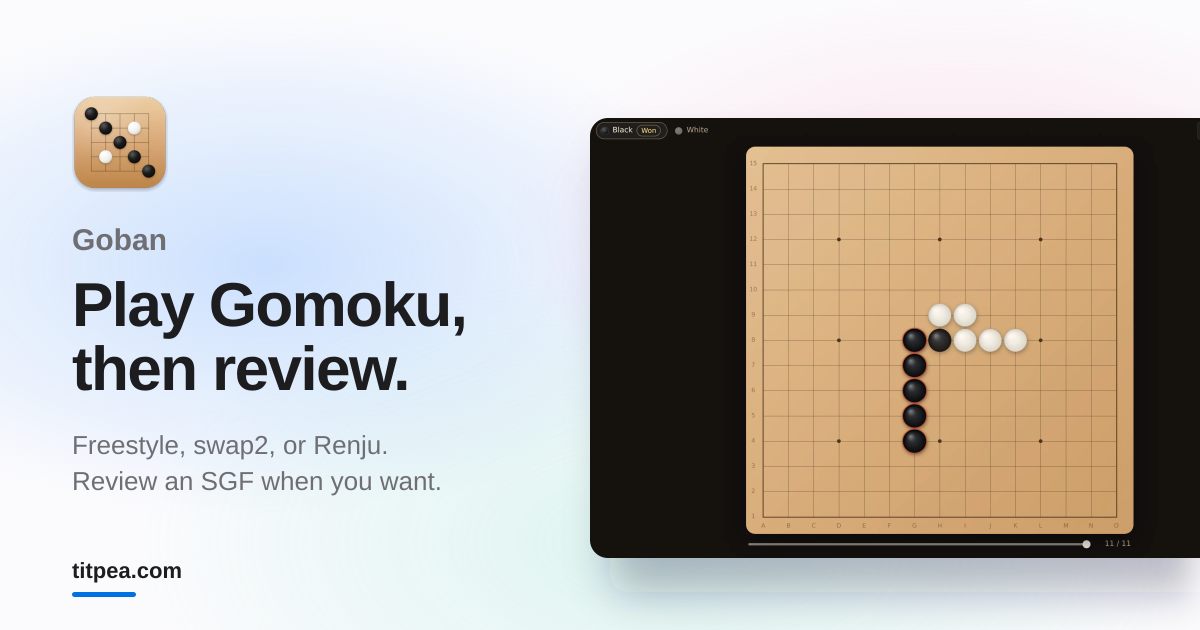
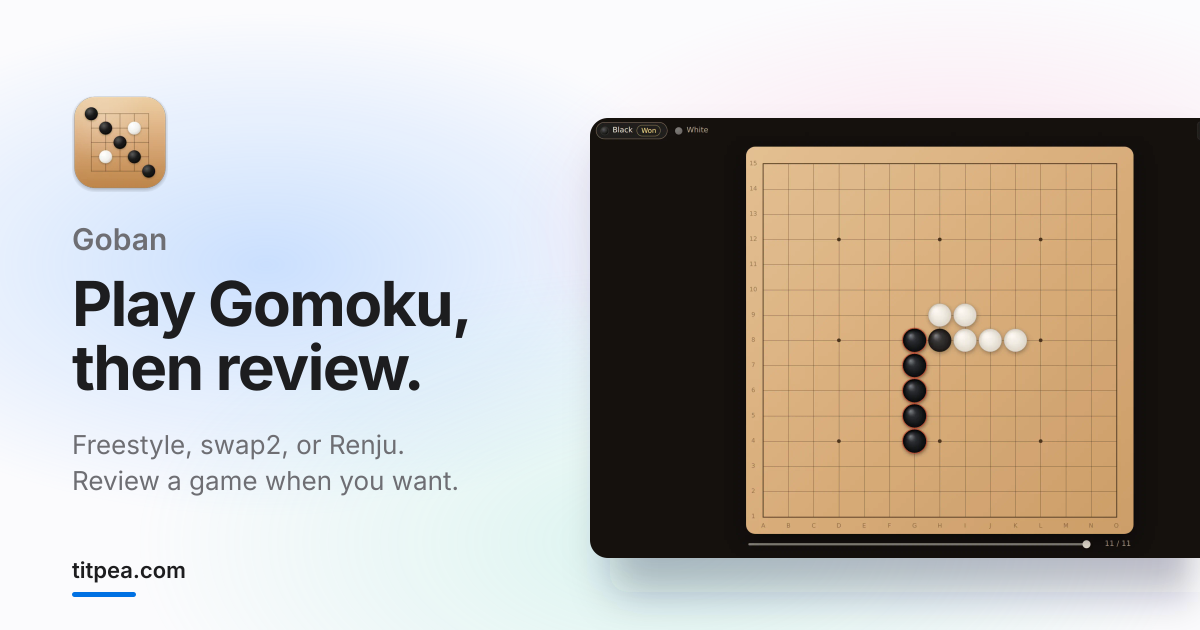
Content review: clearer, consistent copy in both locales
- Home meta description names the same four directions as the lede
  (it called the extensions "for everyday reading" and the games
  "desktop board games", though Paper Sudoku is Android).
- Goban: the network note said "no network" beside "Only when you ask";
  it now says Check for Updates is the one thing that goes online.
- "Releases page" on product pages now says GitHub Releases, so it is
  not read as the site's own Releases page (httpmon, World Machine).
- Button names quoted where a sentence ran into them (Storage Agent,
  PageWise); ambiguous pronouns and over-packed lines rephrased
  (PageWise keys, Goban backup, Bilingual description, World Machine
  voice card, Douban hover card, Paper Sudoku policy permission line).
- One term per idea: 凭据 (not 凭证), 轮次 (not 回合) on celagent,
  失着 on Chessboard, 模型线路 on Agent Radar, 子 Agent on Pulse,
  "hidden document" on Bilingual, 繁体中文, agent lowercase in English.
- zh fixes: Agent Radar eyebrow matches English, World Clock 夏令时,
  Readout GitHub 风格 Markdown, PageWise catalog, StorageOps FAQ,
  Pulse event-log sentence, World Machine nav label.
- 404 lede: "home index" -> "home page". Goban share image redrawn
  for its catalog line.

Claude-Session: https://claude.ai/code/session_01JmaFxrCaTr7J8dy17sm4dB

diff --git a/src/content/products/goban.ts b/src/content/products/goban.ts
@@ -15,13 +15,13 @@ export default defineProduct({
   en: {
     title: "Goban",
     description:
-      "A desktop Gomoku board for macOS and Windows: free, swap2, or Renju, with review, drills, and a daily streak.",
+      "A desktop Gomoku board for macOS and Windows: freestyle, swap2, or Renju, with review and practice puzzles.",
     eyebrow: "Desktop Gomoku game",
     headline: "Play Gomoku, then review.",
     lead: "A 15×15 board. Three rule sets. Games stay local.",
     catalog: {
       role: "",
-      text: "Freestyle, swap2, or Renju. Review an SGF when you want.",
+      text: "Freestyle, swap2, or Renju. Review a game when you want.",
     },
     primaryCta: {
       label: "Download",
@@ -35,7 +35,8 @@ export default defineProduct({
       "The macOS build is not notarized: the first time, click Open Anyway in System Settings → Privacy & Security.",
     privacy: {
       network: "onRequest",
-      networkNote: "No account and no network; on macOS, Check for Updates contacts GitHub only when you click it.",
+      networkNote:
+        "No account; nothing goes online except Check for Updates on macOS, which contacts GitHub only when you click it.",
       stays: "Games, practice progress and settings in the app’s storage on this computer.",
     },
     meta: "macOS + Windows · MIT · {version} · Local app",
@@ -89,8 +90,8 @@ export default defineProduct({
         title: "Where your data goes.",
         items: [
           "Your unfinished game, the last 100 finished games, practice progress, and settings stay in the app's storage on this computer.",
-          "Back up in Settings · Data saves games, results, and practice progress to one file; Restore replaces current data with it.",
-          "No account and no network; on macOS, Check for Updates contacts GitHub only when you click it.",
+          "In Settings · Data, Back up saves games, results, and practice progress to one file; Restore replaces current data with it.",
+          "No account; nothing goes online except Check for Updates on macOS, which contacts GitHub only when you click it.",
         ],
       },
       {
@@ -141,7 +142,7 @@ export default defineProduct({
     installNote: "macOS 版未经公证：第一次打开时，到“系统设置 → 隐私与安全性”点“仍要打开”。",
     privacy: {
       network: "onRequest",
-      networkNote: "不要账号，也不联网；macOS 上的“检查更新”只在你点它时向 GitHub 查询。",
+      networkNote: "不要账号；只有 macOS 上的“检查更新”会联网，而且只在你点它时向 GitHub 查询。",
       stays: "对局、练习进度和设置都存在这台电脑上应用自己的存储里。",
     },
     meta: "macOS + Windows · MIT · {version} · 本地应用",
@@ -195,7 +196,7 @@ export default defineProduct({
         items: [
           "没下完的一局、最近 100 局、练习进度和设置，都存在这台电脑上应用自己的存储里。",
           "“设置 · 数据”里的“备份”把对局、战绩和练习进度存成一个文件；“恢复”用它替换现有数据。",
-          "不要账号，也不联网；macOS 上的“检查更新”只在你点它时向 GitHub 查询。",
+          "不要账号；只有 macOS 上的“检查更新”会联网，而且只在你点它时向 GitHub 查询。",
         ],
       },
       {

diff --git a/src/content/products/world-machine.ts b/src/content/products/world-machine.ts
@@ -99,7 +99,7 @@ export default defineProduct({
           { title: "Build, paint, name", body: "Scaffolding at once; paint a flag; name boats and babies." },
           { title: "Talk with a goal", body: "Someone asks a favour; you do it by talking." },
           { title: "Three languages", body: "Interface, stories and talk in English, Chinese or Japanese." },
-          { title: "Agent-ready", body: "Pi, a local agent, or your own API key can voice it." },
+          { title: "Agent-ready", body: "A local agent like Pi, or your API key, can voice it." },
         ],
       },
       {
@@ -125,11 +125,11 @@ export default defineProduct({
           },
           {
             title: "How do I open it the first time?",
-            body: "Download the DMG from the Releases page and drag World Machine onto Applications; it runs on Apple Silicon or Intel. Builds are not notarized, so the first launch needs a one-time Open Anyway step, described in the install guide.",
+            body: "Download the DMG from GitHub Releases and drag World Machine onto Applications; it runs on Apple Silicon or Intel. Builds are not notarized, so the first launch needs a one-time Open Anyway step, described in the install guide.",
           },
           {
             title: "Is there a free demo?",
-            body: "Yes. World Machine Demo, on the same Releases page, is 20 to 30 minutes of Tiny Society, up to day 8. Your harbour stays in My Worlds, and the full app opens it and carries on.",
+            body: "Yes. World Machine Demo, also on GitHub Releases, is 20 to 30 minutes of Tiny Society, up to day 8. Your harbour stays in My Worlds, and the full app opens it and carries on.",
           },
           {
             title: "Does a World move while I am away?",
@@ -224,7 +224,7 @@ export default defineProduct({
       {
         kind: "data",
         id: "data",
-        nav: "数据",
+        nav: "数据去向",
         title: "数据的去向",
         items: [
           "世界是你 Mac 上的文件；没有账户、没有遥测，什么都不上传。",
@@ -244,11 +244,11 @@ export default defineProduct({
           },
           {
             title: "第一次怎么打开？",
-            body: "从 Releases 页面下载 DMG，把 World Machine 拖进“应用程序”，Apple 芯片与 Intel 都能运行。构建尚未公证，首次启动需要一次“仍要打开”，步骤见安装指南。",
+            body: "从 GitHub Releases 下载 DMG，把 World Machine 拖进“应用程序”，Apple 芯片与 Intel 都能运行。构建尚未公证，首次启动需要一次“仍要打开”，步骤见安装指南。",
           },
           {
             title: "有免费试玩版吗？",
-            body: "有。同一个 Releases 页面上的 World Machine Demo 是 Tiny Society 的 20 到 30 分钟，玩到第 8 天。你的港口会留在“我的世界”里，完整版应用能打开它接着玩。",
+            body: "有。同样在 GitHub Releases 上的 World Machine Demo 是 Tiny Society 的 20 到 30 分钟，玩到第 8 天。你的港口会留在“我的世界”里，完整版应用能打开它接着玩。",
           },
           {
             title: "我不在时世界还会走吗？",

diff --git a/src/content/products/storage-agent-workbench.ts b/src/content/products/storage-agent-workbench.ts
@@ -15,7 +15,7 @@ export default defineProduct({
   en: {
     title: "Storage Agent",
     description:
-      "Local, read-only desktop Agent for S3-compatible storage: an account check that needs no model, answers grounded in what it read, and Issues it remembers between tasks.",
+      "Local, read-only desktop agent for S3-compatible storage: an account check that needs no model, answers grounded in what it read, and Issues it remembers between tasks.",
     eyebrow: "Looks after object storage",
     headline: "Find what’s wrong in S3.",
     lead: "Read-only checks. Issues ranked by severity. Fixes you run.",
@@ -58,8 +58,8 @@ export default defineProduct({
         id: "features",
         label: "Findings outlast the task.",
         items: [
-          { title: "Check without a model", body: "Check account surveys and reads access with no key at all." },
-          { title: "Names what it missed", body: "“Reads complete”, or the blind and failed reads, named." },
+          { title: "Check without a model", body: "“Check account” surveys and reads access with no key at all." },
+          { title: "Names what it missed", body: "Says “Reads complete”, or names each blind or failed read." },
           { title: "Who changed it", body: "On AWS, CloudTrail names who changed a bucket, over 90 days." },
           { title: "Remembers your storage", body: "Buckets, open Issues and their history, kept between tasks." },
           { title: "Open questions as code", body: "Largest prefixes, data untouched for years: a sandboxed script." },
@@ -83,7 +83,7 @@ export default defineProduct({
         items: [
           {
             title: "Does it need a model key?",
-            body: "Not for Check account: it surveys an account and reads access without a model. Questions need one: OpenAI, Anthropic, or any OpenAI-compatible endpoint; models already running in Ollama or LM Studio are one click away. Paste a key and the provider’s models are listed.",
+            body: "Not for “Check account”: it surveys an account and reads access without a model. Questions need one: OpenAI, Anthropic, or any OpenAI-compatible endpoint; models already running in Ollama or LM Studio are one click away. Paste a key and the provider’s models are listed.",
             asOf: "v25.0.0",
           },
           {
@@ -93,7 +93,7 @@ export default defineProduct({
           },
           {
             title: "Does it watch my account?",
-            body: "No. There is no background watch or schedule. A check is a snapshot; Check again starts a new one, and Re-verify re-reads the buckets a task touched without a model.",
+            body: "No. There is no background watch or schedule. A check is a snapshot; “Check again” starts a new one, and “Re-verify” re-reads the buckets a task touched without a model.",
             asOf: "v25.0.0",
           },
           {

diff --git a/src/content/products/celagent.ts b/src/content/products/celagent.ts
@@ -137,7 +137,7 @@ export default defineProduct({
     privacy: {
       network: "automatic",
       networkNote: "每次提问发往你配置的模型，每个完成的轮次写入你自己的 BOS 存储桶。",
-      stays: "会话在你自己的 BOS 存储桶里，本机 Celld 节点留有缓存；存储凭证来自环境变量或 ~/.aws/credentials。",
+      stays: "会话在你自己的 BOS 存储桶里，本机 Celld 节点留有缓存；存储凭据来自环境变量或 ~/.aws/credentials。",
     },
     meta: "Pi 编码 Agent 终端界面 · 百度 BOS · MIT · {version}",
     commands: {
@@ -149,7 +149,7 @@ export default defineProduct({
           command: "curl -fsSL https://github.com/hxddh/celagent/releases/latest/download/install.sh | sh",
         },
         {
-          comment: "自检：配置、凭证、节点、BOS 连通",
+          comment: "自检：配置、凭据、节点、BOS 连通",
           command: "celagent doctor",
         },
       ],
@@ -163,7 +163,7 @@ export default defineProduct({
       filesLabel: "命令",
       files: ["celagent", "celagent list", "celagent <id>  # 从 BOS 恢复", "celagent task ledger"],
       briefLabel: "持久化",
-      brief: "完成回合 → BOS 写入队列 → 写入成功后按会话 ID 恢复",
+      brief: "完成的轮次 → BOS 写入队列 → 写入成功后按会话 ID 恢复",
       footnotes: ["两台机器均需配置", "条件写入检测冲突"],
     },
     sections: [
@@ -174,7 +174,7 @@ export default defineProduct({
         label: "完整的 Pi 会话，不是摘要",
         items: [
           { title: "原样的 Pi", body: "终端界面、引擎和工具不变；历史仍是原生 JSONL。" },
-          { title: "每轮保存", body: "完成的回合进入 BOS 写入队列；条件写入检测冲突。" },
+          { title: "每轮保存", body: "完成的轮次进入 BOS 写入队列；条件写入检测冲突。" },
           { title: "先读 BOS", body: "写入失败留在队列；不静默退回截断缓存。" },
           { title: "先配置存储", body: "配好 BOS，运行 doctor 和 cas-probe。" },
           { title: "等写入成功", body: "BOS 写入成功后才能跨机恢复。" },
@@ -189,7 +189,7 @@ export default defineProduct({
         items: [
           "每个完成的轮次以 Pi JSONL 写入你自己的 BOS 存储桶，本机 Celld 节点另存一份缓存。",
           "提问和工具结果发往你配置的模型，默认 DeepSeek；没有密钥时在本机生成模拟回复。",
-          "存储凭证来自环境变量或 `~/.aws/credentials` 里的 `[bos]` profile；`celagent rm <id>` 删除会话。",
+          "存储凭据来自环境变量或 `~/.aws/credentials` 里的 `[bos]` profile；`celagent rm <id>` 删除会话。",
         ],
       },
       {

diff --git a/src/content/products/bilingual.ts b/src/content/products/bilingual.ts
@@ -30,7 +30,7 @@ export default defineProduct({
   en: {
     title: "Bilingual",
     description:
-      "Chrome extension that shows the original page, and a paragraph's translation only while you hold a key, or both languages together.",
+      "Chrome extension that shows the original by default, a paragraph’s translation while you hold a key, or both languages together.",
     eyebrow: "Chrome extension",
     headline: "Hold a key to translate.",
     lead: "The original by default. Hold a key for a paragraph’s translation. Double-tap for both.",
@@ -112,7 +112,7 @@ export default defineProduct({
         items: [
           {
             title: "What do I need to run it?",
-            body: "Desktop Chrome 138 or later. Turning on a language pair downloads Chrome’s language pack once; after that the pair works on every site, because translation runs in the extension’s own offscreen document. Local files work too, once you turn on “Allow access to file URLs” for it in `chrome://extensions`.",
+            body: "Desktop Chrome 138 or later. Turning on a language pair downloads Chrome’s language pack once; after that the pair works on every site, because translation runs in the extension’s own hidden document. Local files work too, once you turn on “Allow access to file URLs” for it in `chrome://extensions`.",
           },
           {
             title: "Which key do I hold?",
@@ -220,7 +220,7 @@ export default defineProduct({
           },
           {
             title: "能译成哪些语言？",
-            body: "简体中文、繁體中文、日语、韩语、英语、法语、德语、西班牙语、葡萄牙语、俄语、意大利语，以及另外 27 种。默认译成浏览器界面语言，不在列表里就译成英文。",
+            body: "简体中文、繁体中文、日语、韩语、英语、法语、德语、西班牙语、葡萄牙语、俄语、意大利语，以及另外 27 种。默认译成浏览器界面语言，不在列表里就译成英文。",
           },
           {
             title: "免费吗？",

diff --git a/src/content/products/pagewise.ts b/src/content/products/pagewise.ts
@@ -83,7 +83,7 @@ export default defineProduct({
         items: [
           "Files, chats, marks, the record, and recognised scan text stay on your machine; there is no telemetry.",
           "Extracted text goes to the model you configure, or Ollama; scans are read locally, with a vision model only as fallback.",
-          "API keys stay in the system keychain; a key it refuses waits in a local settings file until it accepts it.",
+          "API keys stay in the system keychain; a key the keychain refuses waits in a local settings file until accepted.",
         ],
       },
       {
@@ -99,7 +99,7 @@ export default defineProduct({
           },
           {
             title: "Can it miss something?",
-            body: "Yes. Each answer reads within a token and step budget, so a search miss does not mean the document contains no relevant information. In the background, PageWise reads at most 50 pages that have no text; the rest are read when needed, or all at once with Read pages with no text.",
+            body: "Yes. Each answer reads within a token and step budget, so a search miss does not mean the document contains no relevant information. In the background, PageWise reads at most 50 pages that have no text; the rest are read when needed, or all at once with “Read pages with no text”.",
           },
           {
             title: "Can a found citation still be wrong?",
@@ -126,7 +126,7 @@ export default defineProduct({
     lead: "直接提问。每条引用标为已核对、请看原页或未找到。扫描件在本机识别。",
     catalog: {
       role: "PDF 助手",
-      text: "向 PDF 提问。顺着页引用回到原文。",
+      text: "向 PDF 提问。顺着引用回到原页。",
     },
     primaryCta: {
       label: "下载",

diff --git a/src/content/products/world-clock.ts b/src/content/products/world-clock.ts
@@ -99,7 +99,7 @@ export default defineProduct({
         id: "features",
         label: "Up to 10 cities, in your order.",
         items: [
-          { title: "Local weekends", body: "9 to 18 stay lit; weekends follow each city’s country." },
+          { title: "Local weekends", body: "9:00–18:00 stay lit; weekends follow each city’s country." },
           { title: "Offsets from you", body: "+7h or −5h from your local time, plus Tomorrow or Yesterday." },
           { title: "Clock changes ahead", body: "Daylight-saving shifts flagged two weeks early, like −7h → −8h." },
           { title: "Copy the times", body: "Click one time, or ⌘C / Ctrl+C for every city." },
@@ -228,7 +228,7 @@ export default defineProduct({
         items: [
           { title: "各地周末", body: "9 点到 18 点常亮；周末按各城市所在国家。" },
           { title: "相对你的时差", body: "显示 +7h、−5h 这样的时差，以及明天或昨天。" },
-          { title: "提前提示换时", body: "夏令时带来的时差变化提前两周标出，如 −7h → −8h。" },
+          { title: "提前提示夏令时", body: "夏令时带来的时差变化提前两周标出，如 −7h → −8h。" },
           { title: "复制时间", body: "点击复制一个，或按 ⌘C / Ctrl+C 复制全部城市。" },
           { title: "自定快捷键", body: "在 `chrome://extensions/shortcuts` 设置打开弹窗的按键。" },
           { title: "三种主题", body: "默认、终端、杂志，都跟随系统浅色或深色。" },

diff --git a/src/content/products/httpmon.ts b/src/content/products/httpmon.ts
@@ -39,7 +39,7 @@ export default defineProduct({
     meta: "Go · MIT · {version} · local proxy · HTTP / HTTPS / HTTP/2 / gRPC / WebSocket · NDJSON / HAR",
     commands: {
       title: "Get started",
-      sub: "Requires Go 1.24+. Pre-built binaries are on the Releases page.",
+      sub: "Requires Go 1.24+. Pre-built binaries are on GitHub Releases.",
       items: [
         {
           comment: "Install",
@@ -78,7 +78,7 @@ export default defineProduct({
           { title: "WebSocket too", body: "`wss://` and `ws://` frames, spliced in both directions." },
           { title: "HTTP/2 and gRPC", body: "Trailers carried through; gRPC status decoded." },
           { title: "Start locally", body: "Listens on `127.0.0.1` only; no system proxy changes." },
-          { title: "Configure one child", body: "Proxy address and ephemeral CA live in that command’s environment." },
+          { title: "Only that command", body: "Proxy address and ephemeral CA live in that command’s environment." },
           { title: "Save when needed", body: "NDJSON, HAR 1.2, or a recording, to replay or share." },
         ],
       },
@@ -149,7 +149,7 @@ export default defineProduct({
     meta: "Go · MIT · {version} · 本地代理 · HTTP / HTTPS / HTTP/2 / gRPC / WebSocket · NDJSON / HAR",
     commands: {
       title: "开始使用",
-      sub: "需要 Go 1.24+。Releases 页面也有预编译二进制。",
+      sub: "需要 Go 1.24+。GitHub Releases 上也有预编译二进制。",
       items: [
         {
           comment: "安装",

diff --git a/src/content/products/pulse.ts b/src/content/products/pulse.ts
@@ -339,7 +339,7 @@ export default defineProduct({
         items: [
           { title: "每次等待一条横幅", body: "直接写出请求，如 `Bash: npm run build`；回答后撤回。" },
           { title: "只做灯", body: "不替你回答授权，不派活，不显示 token 或费用。" },
-          { title: "详情里的本轮", body: "点“›”看这一轮用的工具、改过的文件、计划和子代理。" },
+          { title: "详情里的本轮", body: "点“›”看这一轮用的工具、改过的文件、计划和子 Agent。" },
           { title: "橙色表示停滞", body: "只用于 Pi 与 OpenCode：二十分钟没有新动静。" },
           { title: "六个 Agent", body: "四个会亮红；Codex 与 Cursor 只报运行和轮到你。" },
           { title: "点一下就去", body: "能精确落点就去终端，否则打开应用；点“›”看详情和时间线。" },
@@ -351,7 +351,7 @@ export default defineProduct({
         title: "数据的去向",
         items: [
           "状态只来自各 Agent 自己的 hook；Pulse 不读取会话文件、transcript 或受 macOS 保护的应用数据。",
-          "事件日志里的提示至多 200 字、凭据已抹掉，文件只有你能读，只在本机。",
+          "事件日志只在本机，只有你能读；其中的提示最多保留 200 字，凭据已抹掉。",
           "Pulse 不连网络：不检查更新，不上报任何东西。设置里的“版本发布…”只在浏览器里打开发布页。",
         ],
       },

diff --git a/src/content/products/douban-movie-rating.ts b/src/content/products/douban-movie-rating.ts
@@ -59,7 +59,10 @@ export default defineProduct({
         label: "Only on movie.douban.com.",
         items: [
           { title: "In Douban’s own style", body: "IMDb with its vote count; click a score to open its site." },
-          { title: "Top 250 and charts", body: "Rest on a film link about 0.3 s; ratings appear under it." },
+          {
+            title: "Top 250 and charts",
+            body: "Hover over a film link about 0.3 s; ratings appear under it.",
+          },
           { title: "IMDb ID first", body: "Title search only without one; hover the mark to see the match." },
           { title: "Your own free key", body: "When the shared daily quota runs out, add an OMDb key." },
         ],
@@ -158,7 +161,7 @@ export default defineProduct({
         items: [
           "在影片详情页读取片名、年份和 IMDb 编号；鼠标停在其他影片链接上时，会向豆瓣请求该片页面取得同样信息。",
           "这些信息连同 API 密钥只发送给 OMDb。设置和你填写的 OMDb 密钥存在 Chrome 同步存储中。",
-          "评分缓存在本机，最长 7 天。没有服务器，无分析服务，没有广告或追踪代码；卸载即删除全部设置与缓存。",
+          "评分缓存在本机，最长 7 天。没有服务器，没有分析服务、广告或追踪代码；卸载即删除全部设置与缓存。",
         ],
       },
       {

diff --git a/src/content/site.ts b/src/content/site.ts
@@ -176,8 +176,7 @@ export const ui: Record<Locale, Ui> = {
     productIndex: "One developer, hxddh",
     homeMetaTitle: "Titpea — Small software by hxddh",
     homeTitle: "Small software, made with care.",
-    homeDescription:
-      "Software by one developer, hxddh: tools for object storage and coding agents, browser extensions for everyday reading, desktop board games, and a small world.",
+    homeDescription: "Small software by one developer, hxddh: object storage, coding agents, Chrome extensions, games.",
     homeLead: "Object storage, coding agents, Chrome extensions, games.",
     featuredTitle: "Selected work",
     moreToolsTitle: "Every tool",
@@ -274,8 +273,7 @@ export const ui: Record<Locale, Ui> = {
     productIndex: "hxddh，一个人开发",
     homeMetaTitle: "Titpea — hxddh 的小软件",
     homeTitle: "认真做的小软件",
-    homeDescription:
-      "hxddh 一个人开发的软件：对象存储和编码 Agent 工具、日常用的浏览器扩展、桌面棋类游戏，以及一个小世界。",
+    homeDescription: "hxddh 一个人开发的小软件：对象存储、编码 Agent、Chrome 扩展、游戏。",
     homeLead: "对象存储、编码 Agent、Chrome 扩展、游戏。",
     featuredTitle: "主要作品",
     moreToolsTitle: "全部工具",

diff --git a/src/content/products/s3-turbo-list.ts b/src/content/products/s3-turbo-list.ts
@@ -161,7 +161,7 @@ Doctor status: ok`,
     privacy: {
       network: "onRequest",
       networkNote: "只访问你要列举或对比的 S3 端点；不检查更新，没有遥测。",
-      stays: "对象清单、checkpoint 和日志写在你的输出目录；凭证来自你的 AWS profile 或环境变量。",
+      stays: "对象清单、checkpoint 和日志写在你的输出目录；凭据来自你的 AWS profile 或环境变量。",
     },
     meta: "Rust · Apache-2.0 · {version} · S3 兼容 · Parquet · 机器可读 JSON",
     commands: {
@@ -234,7 +234,7 @@ Doctor status: ok`,
         title: "数据的去向",
         items: [
           "S3 请求只发往你设置的端点或预设填入的端点；不检查更新，没有遥测。",
-          "凭证来自标准 AWS 凭证链：profile、环境变量或实例角色；预设从不碰凭证。",
+          "凭据来自标准 AWS 凭据链：profile、环境变量或实例角色；预设从不碰凭据。",
           "对象清单、checkpoint、日志和运行记录都写在输出目录；`doctor` 与 `--dry-run` 不访问任何 S3 端点。",
         ],
       },
